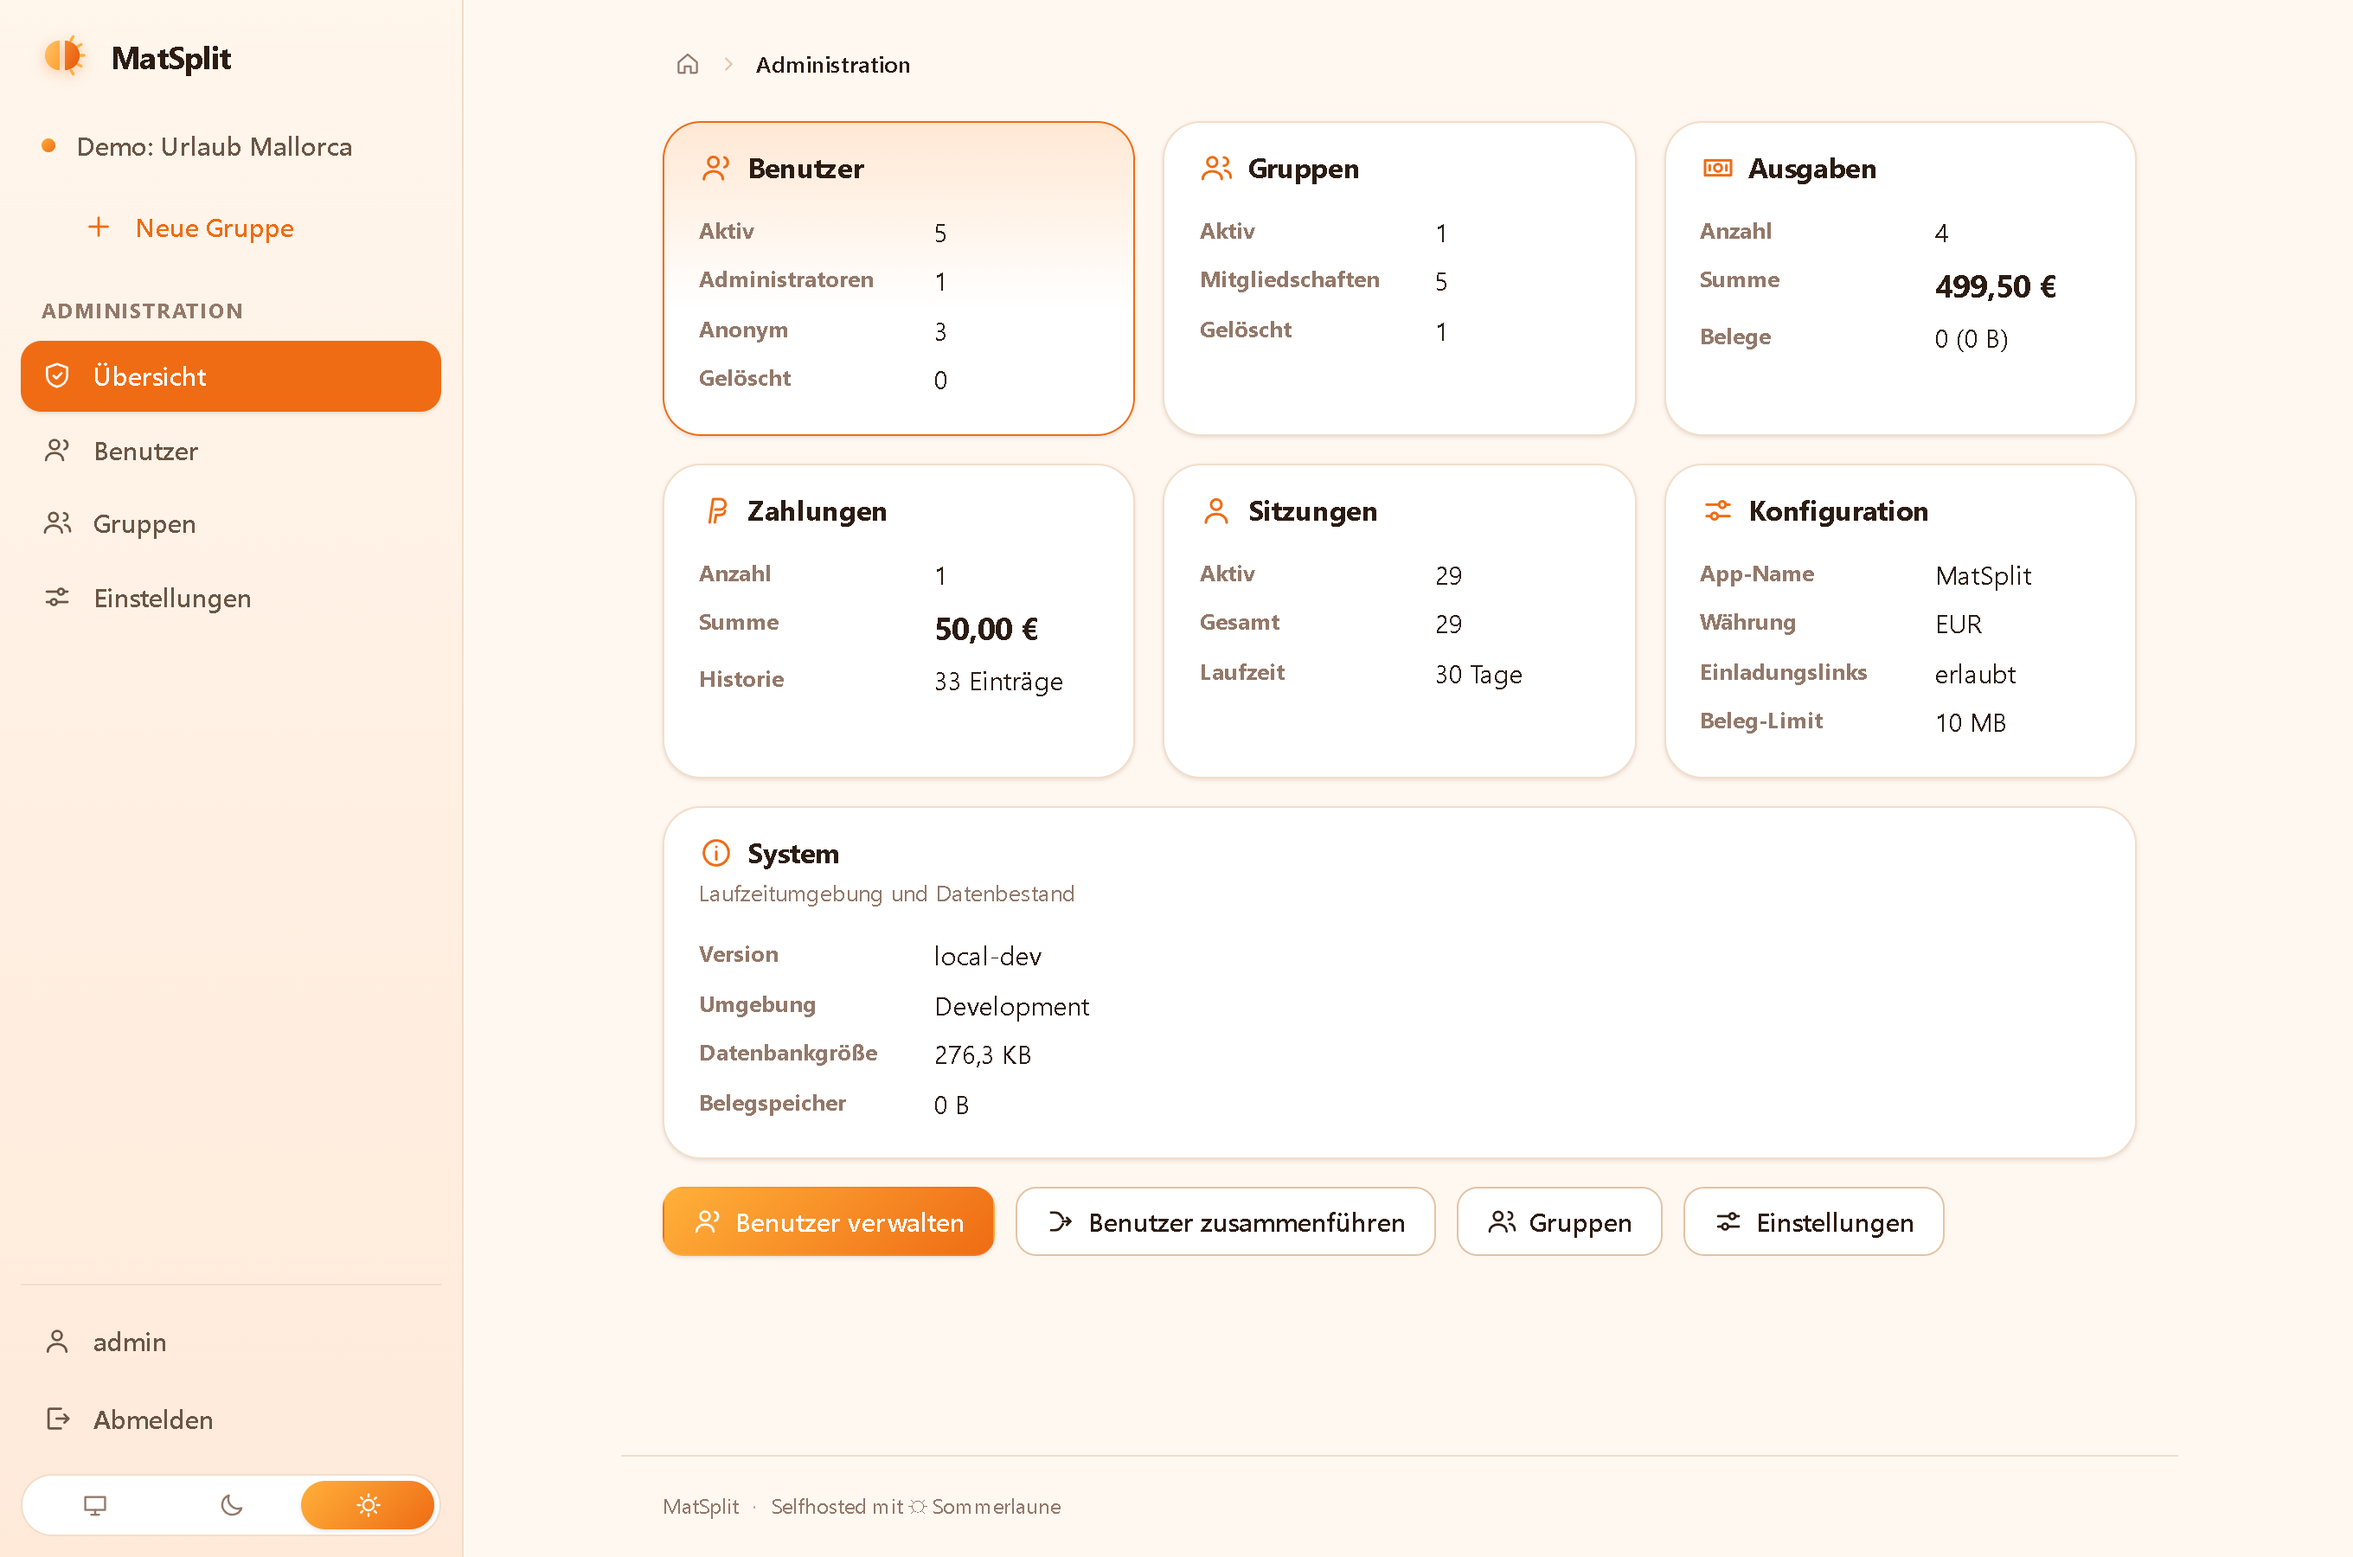
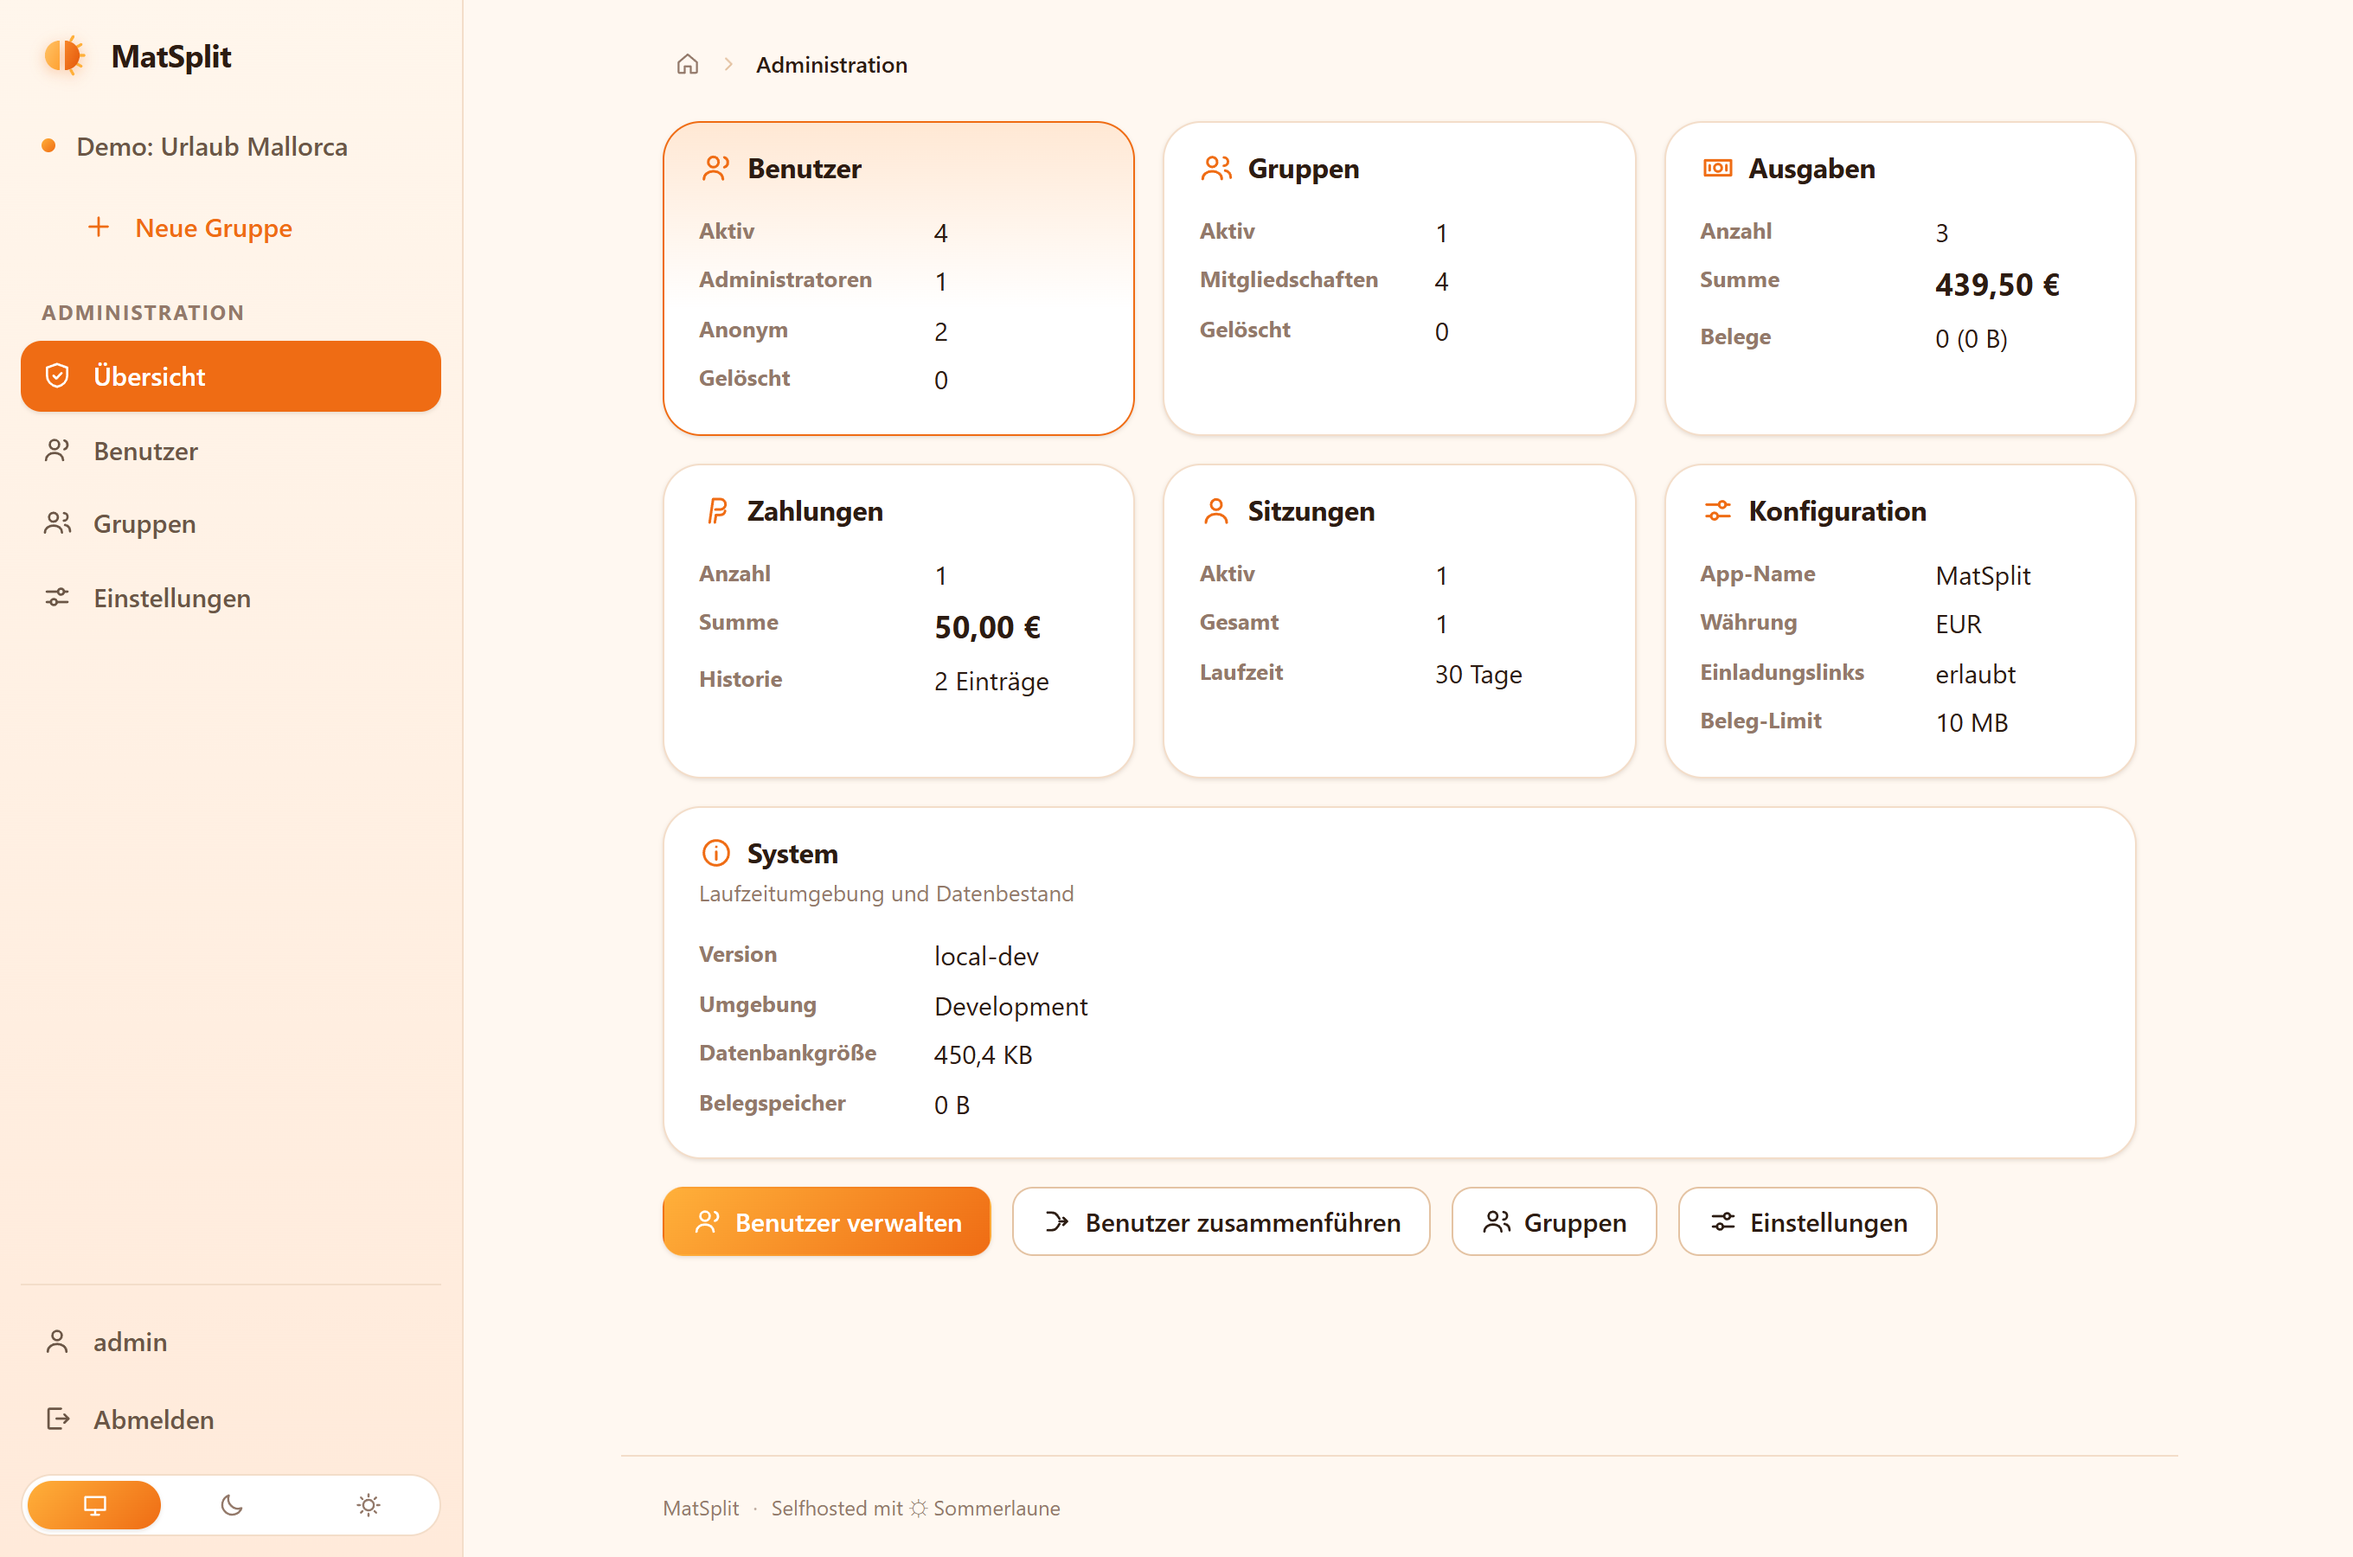
Nur-Lese-Link zum Teilen + aufgeraeumte Screenshots
- Oeffentliche, schreibgeschuetzte Gruppen-Ansicht /View?token=... (Kontostand,
  Ausgleich, Transaktionen, Mitglieder) ohne Login/Beitritt/Bearbeiten
- Group.ReadOnlyToken/ReadOnlyEnabled (+ Unique-Index), GroupService-Methoden,
  Verwaltung (aktivieren/deaktivieren/neu erzeugen) auf /Groups/Share
- /View als AllowAnonymous, bare Shell ohne Menue
- README: Feature + neuer Screenshot; CHANGELOG [Unreleased]
- docs/images neu aufgenommen aus sauberen Seed-Demo-Daten (Test-Reste entfernt)

diff --git a/src/MatSplit.Web/Pages/Groups/Share.cshtml.cs b/src/MatSplit.Web/Pages/Groups/Share.cshtml.cs
@@ -51,6 +51,12 @@ public class ShareModel(
     /// <summary>PRG target for the invite management forms on this page.</summary>
     public string SelfUrl => $"/Groups/Share?groupId={GroupId}";
 
+    /// <summary>Whether the public read-only link currently resolves.</summary>
+    public bool ReadOnlyEnabled { get; private set; }
+
+    /// <summary>Absolute read-only view link (/View?token=...).</summary>
+    public string ReadOnlyUrl { get; private set; } = string.Empty;
+
     public async Task<IActionResult> OnGetAsync(CancellationToken cancellationToken)
     {
         var userId = currentUser.RequireUserId();
@@ -85,6 +91,8 @@ public class ShareModel(
         CanManage = await currentUser.CanManageGroupAsync(GroupId, cancellationToken);
         AllowAnonymousJoin = (await appConfig.GetAsync(cancellationToken)).AllowAnonymousJoin;
         InviteUrl = $"{Request.Scheme}://{Request.Host}{Request.PathBase}/Join?token={group.InviteToken}";
+        ReadOnlyEnabled = group.ReadOnlyEnabled;
+        ReadOnlyUrl = $"{Request.Scheme}://{Request.Host}{Request.PathBase}/View?token={group.ReadOnlyToken}";
 
         var menu = await GroupMenu.BuildAsync(groups, currentUser, userId, cancellationToken);
         this.SetMenuGroups(menu, GroupId);
@@ -142,6 +150,46 @@ public class ShareModel(
         }
 
         this.Flash("Der Einladungslink wurde neu erzeugt, der alte Link ist ungültig.");
+        return RedirectToSelf();
+    }
+
+    public async Task<IActionResult> OnPostToggleReadOnlyAsync(bool enabled, CancellationToken cancellationToken)
+    {
+        var guard = await GuardManageAsync(cancellationToken);
+        if (guard is not null)
+        {
+            return guard;
+        }
+
+        var result = await groups.SetReadOnlyEnabledAsync(GroupId, enabled, cancellationToken);
+
+        if (result.IsFailure)
+        {
+            this.FlashError(result.Error!);
+            return RedirectToSelf();
+        }
+
+        this.Flash(enabled ? "Der Nur-Lese-Link ist aktiv." : "Der Nur-Lese-Link ist deaktiviert.");
+        return RedirectToSelf();
+    }
+
+    public async Task<IActionResult> OnPostRegenerateReadOnlyAsync(CancellationToken cancellationToken)
+    {
+        var guard = await GuardManageAsync(cancellationToken);
+        if (guard is not null)
+        {
+            return guard;
+        }
+
+        var result = await groups.RegenerateReadOnlyTokenAsync(GroupId, cancellationToken);
+
+        if (result.IsFailure)
+        {
+            this.FlashError(result.Error!);
+            return RedirectToSelf();
+        }
+
+        this.Flash("Der Nur-Lese-Link wurde neu erzeugt, der alte Link ist ungültig.");
         return RedirectToSelf();
     }
 

diff --git a/src/MatSplit.Web/Services/GroupService.cs b/src/MatSplit.Web/Services/GroupService.cs
@@ -509,6 +509,65 @@ public sealed class GroupService(
         return Result.Ok();
     }
 
+    /// <summary>Resolves a group from its read-only token, only when the link is enabled.</summary>
+    public async Task<Group?> GetGroupByReadOnlyTokenAsync(string? readOnlyToken, CancellationToken cancellationToken = default)
+    {
+        if (string.IsNullOrWhiteSpace(readOnlyToken))
+        {
+            return null;
+        }
+
+        return await db.Groups
+            .AsNoTracking()
+            .FirstOrDefaultAsync(
+                x => x.ReadOnlyToken == readOnlyToken && x.ReadOnlyEnabled && x.UpdateState != UpdateState.Deleted,
+                cancellationToken);
+    }
+
+    public async Task<Result<string>> RegenerateReadOnlyTokenAsync(long groupId, CancellationToken cancellationToken = default)
+    {
+        var group = await db.Groups.FirstOrDefaultAsync(
+            x => x.Id == groupId && x.UpdateState != UpdateState.Deleted, cancellationToken);
+
+        if (group is null)
+        {
+            return Result.Fail<string>("Die Gruppe wurde nicht gefunden.");
+        }
+
+        group.ReadOnlyToken = Guid.NewGuid().ToString();
+        group.UpdateState = UpdateState.Updated;
+
+        await history.LogAsync(
+            groupId,
+            null,
+            HistoryService.EntityTypes.Group,
+            groupId,
+            HistoryService.Actions.Updated,
+            "Der Nur-Lese-Link wurde neu erzeugt.",
+            saveChanges: false,
+            cancellationToken: cancellationToken);
+
+        await db.SaveChangesAsync(cancellationToken);
+        return Result.Ok(group.ReadOnlyToken);
+    }
+
+    public async Task<Result> SetReadOnlyEnabledAsync(long groupId, bool enabled, CancellationToken cancellationToken = default)
+    {
+        var group = await db.Groups.FirstOrDefaultAsync(
+            x => x.Id == groupId && x.UpdateState != UpdateState.Deleted, cancellationToken);
+
+        if (group is null)
+        {
+            return Result.Fail("Die Gruppe wurde nicht gefunden.");
+        }
+
+        group.ReadOnlyEnabled = enabled;
+        group.UpdateState = UpdateState.Updated;
+        await db.SaveChangesAsync(cancellationToken);
+
+        return Result.Ok();
+    }
+
     /// <summary>
     /// Invite-link entry point: creates an anonymous user with the given display
     /// name and adds it to the group. The Join page then signs that user in.

diff --git a/src/MatSplit.Web/Pages/View.cshtml.cs b/src/MatSplit.Web/Pages/View.cshtml.cs
@@ -1,0 +1,64 @@
+using MatSplit.Web.Data.Entities;
+using MatSplit.Web.Services;
+using MatSplit.Web.Services.Models;
+using MatSplit.Web.Ui;
+using Microsoft.AspNetCore.Authorization;
+using Microsoft.AspNetCore.Mvc;
+using Microsoft.AspNetCore.Mvc.RazorPages;
+
+namespace MatSplit.Web.Pages;
+
+/// <summary>
+/// Public, read-only view of a group, reachable through its read-only link
+/// (/View?token=...). No login, no join, no editing: it shows the balance, the
+/// settlements, the transactions and the members of the group and nothing else.
+/// Renders without the app menu (bare shell).
+/// </summary>
+[AllowAnonymous]
+public class ViewModel(
+    GroupService groups,
+    BalanceService balances,
+    TransactionService transactions) : PageModel
+{
+    [BindProperty(SupportsGet = true)]
+    public string? Token { get; set; }
+
+    public Group? Group { get; private set; }
+
+    public bool Found => Group is not null;
+
+    public BalanceResult Balance { get; private set; } = new();
+
+    public IReadOnlyList<TransactionRow> Transactions { get; private set; } = [];
+
+    public IReadOnlyList<GroupMember> Members { get; private set; } = [];
+
+    public string Currency => string.IsNullOrWhiteSpace(Group?.Currency) ? "EUR" : Group!.Currency;
+
+    /// <summary>Sum of all open settlement transfers.</summary>
+    public long OpenSettlementCents => Balance.Settlements.Sum(x => x.AmountCents);
+
+    public async Task<IActionResult> OnGetAsync(CancellationToken cancellationToken)
+    {
+        ViewData[LayoutKeys.HideMenu] = true;
+
+        var group = await groups.GetGroupByReadOnlyTokenAsync(Token, cancellationToken);
+
+        if (group is null)
+        {
+            this.SetTitle("Nur-Lese-Ansicht", "Geteilte Gruppe", "link");
+            return Page();
+        }
+
+        Group = group;
+        Balance = await balances.CalculateBalancesAsync(group.Id, cancellationToken);
+        Members = await groups.ListMembersAsync(group.Id, cancellationToken);
+
+        var result = await transactions.ListTransactionsAsync(
+            group.Id, kind: null, page: 1, pageSize: 100, cancellationToken: cancellationToken);
+        Transactions = result.Items;
+
+        this.SetTitle(group.Name, "Nur-Lese-Ansicht", "group");
+        return Page();
+    }
+}

diff --git a/src/MatSplit.Web/Data/AppDbContext.cs b/src/MatSplit.Web/Data/AppDbContext.cs
@@ -105,9 +105,12 @@ public class AppDbContext(DbContextOptions<AppDbContext> options) : DbContext(op
         entity.Property(x => x.Currency).HasColumnName("Currency").HasMaxLength(3).HasDefaultValue("EUR").IsRequired();
         entity.Property(x => x.InviteToken).HasColumnName("InviteToken").HasMaxLength(64).IsRequired();
         entity.Property(x => x.InviteEnabled).HasColumnName("InviteEnabled").IsRequired();
+        entity.Property(x => x.ReadOnlyToken).HasColumnName("ReadOnlyToken").HasMaxLength(64).IsRequired();
+        entity.Property(x => x.ReadOnlyEnabled).HasColumnName("ReadOnlyEnabled").IsRequired();
 
         entity.HasIndex(x => x.Token).IsUnique().HasDatabaseName("IX_Groups_Token");
         entity.HasIndex(x => x.InviteToken).IsUnique().HasDatabaseName("IX_Groups_InviteToken");
+        entity.HasIndex(x => x.ReadOnlyToken).IsUnique().HasDatabaseName("IX_Groups_ReadOnlyToken");
     }
 
     private static void ConfigureGroupMembers(ModelBuilder modelBuilder)

diff --git a/src/MatSplit.Web/Data/Entities/Group.cs b/src/MatSplit.Web/Data/Entities/Group.cs
@@ -18,6 +18,12 @@ public class Group : AuditableEntity
 
     public bool InviteEnabled { get; set; } = true;
 
+    /// <summary>Secret used by the public, read-only view page (/View?token=...).</summary>
+    public string ReadOnlyToken { get; set; } = Guid.NewGuid().ToString();
+
+    /// <summary>When off, the read-only link does not resolve. Off by default.</summary>
+    public bool ReadOnlyEnabled { get; set; }
+
     public ICollection<GroupMember> Members { get; set; } = new List<GroupMember>();
 
     public ICollection<Expense> Expenses { get; set; } = new List<Expense>();

diff --git a/src/MatSplit.Web/Program.cs b/src/MatSplit.Web/Program.cs
@@ -87,6 +87,7 @@ builder.Services.AddRazorPages(options =>
     options.Conventions.AllowAnonymousToPage("/Account/Login");
     options.Conventions.AllowAnonymousToPage("/Account/Logout");
     options.Conventions.AllowAnonymousToPage("/Join");
+    options.Conventions.AllowAnonymousToPage("/View");
     options.Conventions.AllowAnonymousToPage("/Error");
 
     // The 403 page has to render for signed out users too, otherwise the

diff --git a/README.md b/README.md
@@ -52,6 +52,8 @@ straight to the recipient.
   per-group admin flag
 - **Guests stay guests**: link members can neither open groups of their own nor pass the
   invite link on
+- Share a **read-only link**: a public, view-only page of the balance and transactions –
+  no login, no editing, off by default and revocable
 - Everything runs on your machine – no telemetry, no external calls
 
 **Interface**
@@ -99,6 +101,14 @@ participant shows their computed share right away – the exact cent split happe
 
 An invite link with copy, WhatsApp and Telegram shortcuts; and an admin area with users,
 groups, settings and per-installation statistics.
+
+### A public read-only link
+
+![The public read-only view of a group with balance, settlements and transactions](docs/images/readonly-view.png)
+
+Turn on a **read-only link** to show the current state of a group to anyone – balance,
+settlements, transactions and members – without a login and without the ability to change
+anything. It has its own token, is off by default and can be revoked at any time.
 
 ### On the phone
 

diff --git a/CHANGELOG.md b/CHANGELOG.md
@@ -7,6 +7,13 @@ Versionierung nach dem in der [README](README.md#versionierungsschema) beschrieb
 
 ## [Unreleased]
 
+### Hinzugefuegt
+
+- **Nur-Lese-Link** je Gruppe: eine oeffentliche, schreibgeschuetzte Ansicht
+  (`/View?token=...`) mit Kontostand, Ausgleich, Transaktionen und Mitgliedern — ohne
+  Login, ohne Beitritt, ohne Bearbeiten. Eigener Token, standardmaessig aus, jederzeit
+  deaktivier- und neu erzeugbar; Verwaltung auf `/Groups/Share`.
+
 ### Geplant
 
 - Bestehende Benutzer per E-Mail in Gruppen einladen (aktuell: Einladungslink).
